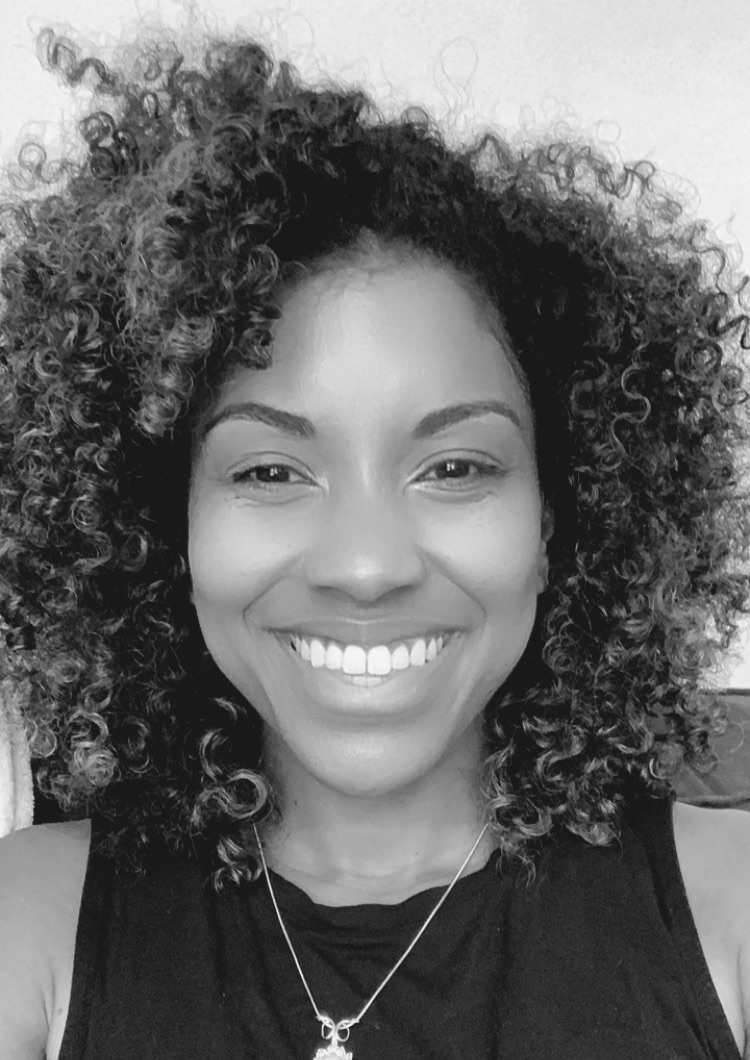
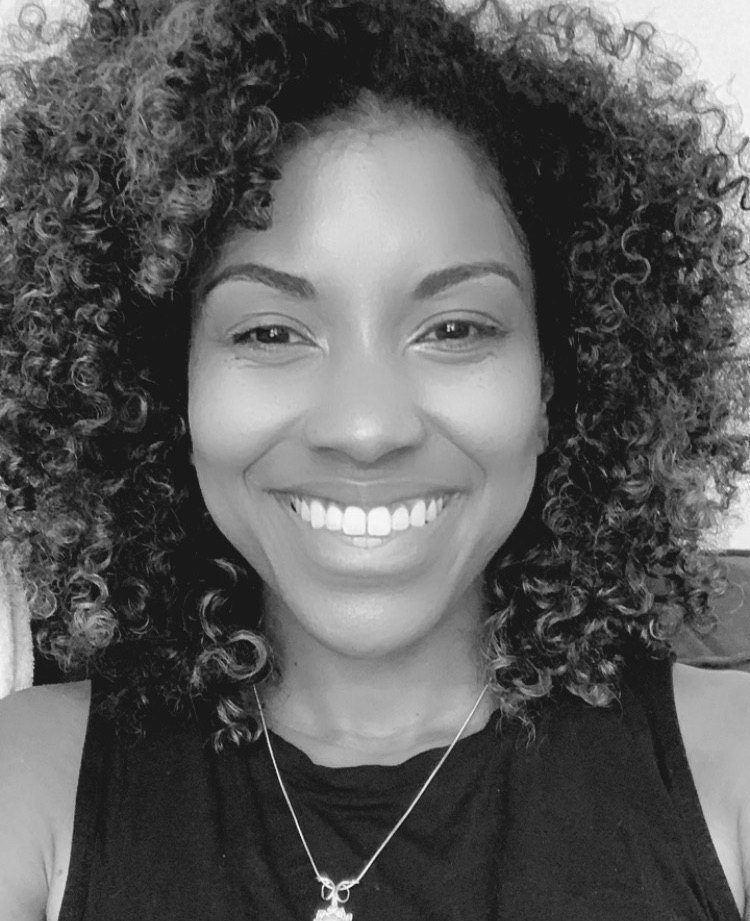
need to add wander links & cover img and replace pic

diff --git a/index.html b/index.html
@@ -317,7 +317,7 @@
                   <img class="svg" src="img/svg/code.svg" alt="" />
                   <div class="details">
                     <h3>Javascript</h3>
-                    <p>
+                    <p class="invisible">
                       Web design is a similar process of creation, with the
                       intention intention of the pre presenting...
                     </p>
@@ -329,10 +329,10 @@
                   <img class="svg" src="img/svg/creativity.svg" alt="" />
                   <div class="details">
                     <h3>React</h3>
-                    <!-- <p>
+                    <p class="invisible">
                       Web design is a similar process of creation, with the
                       intention intention of the pre presenting...
-                    </p> -->
+                    </p>
                   </div>
                 </div>
               </li>
@@ -341,10 +341,10 @@
                   <img class="svg" src="img/svg/telegram.svg" alt="" />
                   <div class="details">
                     <h3>Redux</h3>
-                    <!-- <p>
+                    <p class="invisible">
                       Web design is a similar process of creation, with the
                       intention intention of the pre presenting...
-                    </p> -->
+                    </p>
                   </div>
                 </div>
               </li>
@@ -353,10 +353,10 @@
                   <img class="svg" src="img/svg/photoshop.svg" alt="" />
                   <div class="details">
                     <h3>Node</h3>
-                    <!-- <p>
+                    <p class="invisible">
                       Web design is a similar process of creation, with the
                       intention intention of the pre presenting...
-                    </p> -->
+                    </p>
                   </div>
                 </div>
               </li>
@@ -365,10 +365,10 @@
                   <img class="svg" src="img/svg/photoshop.svg" alt="" />
                   <div class="details">
                     <h3>PostgreSQL</h3>
-                    <!-- <p>
+                    <p class="invisible">
                       Web design is a similar process of creation, with the
                       intention intention of the pre presenting...
-                    </p> -->
+                    </p>
                   </div>
                 </div>
               </li>

diff --git a/css/style.css b/css/style.css
@@ -463,7 +463,7 @@ h6 {
 
 .waxon_tm_hero {
   width: 100%;
-  height: 100vh;
+  height: 90vh;
   clear: both;
   float: left;
   position: relative;
